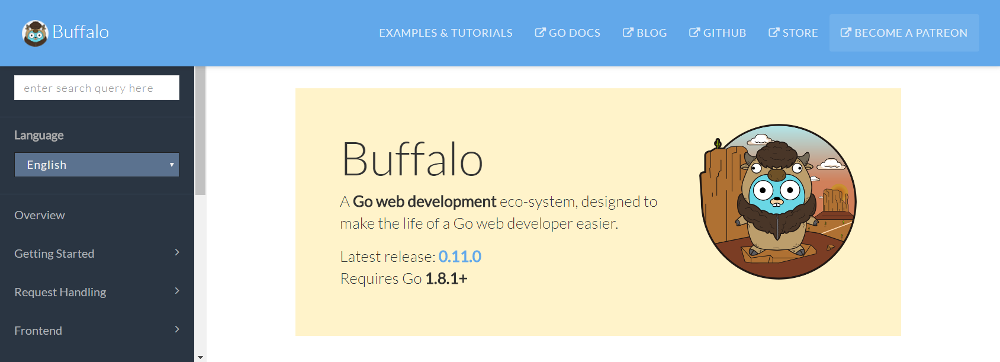
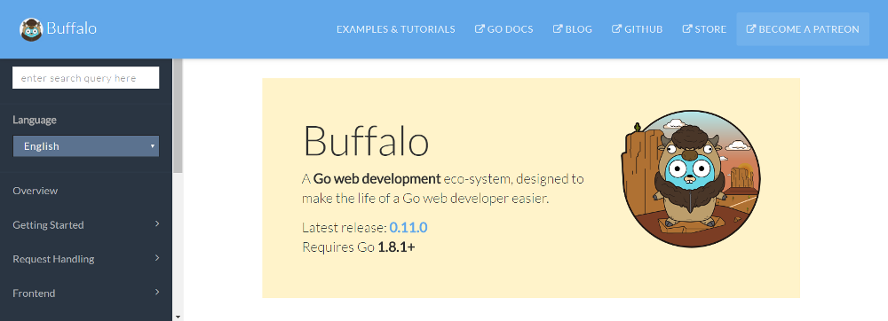
Improve image fitting

Changed region(s): [[0.3649, 0.6854, 0.4257, 0.7165], [0.4257, 0.5919, 0.4561, 0.6231]]

diff --git a/README.md b/README.md
@@ -1,6 +1,6 @@
 # gobuffalo.io
 
-<p><img src="gobuffalo-io.png" alt="gobuffalo.io" width="1000px;"></p>
+<p><img src="gobuffalo-io.png" alt="gobuffalo.io" width="888"></p>
 
 This is the repository for https://www.gobuffalo.io, the official website of the [Buffalo ecosystem](https://github.com/gobuffalo).
 
